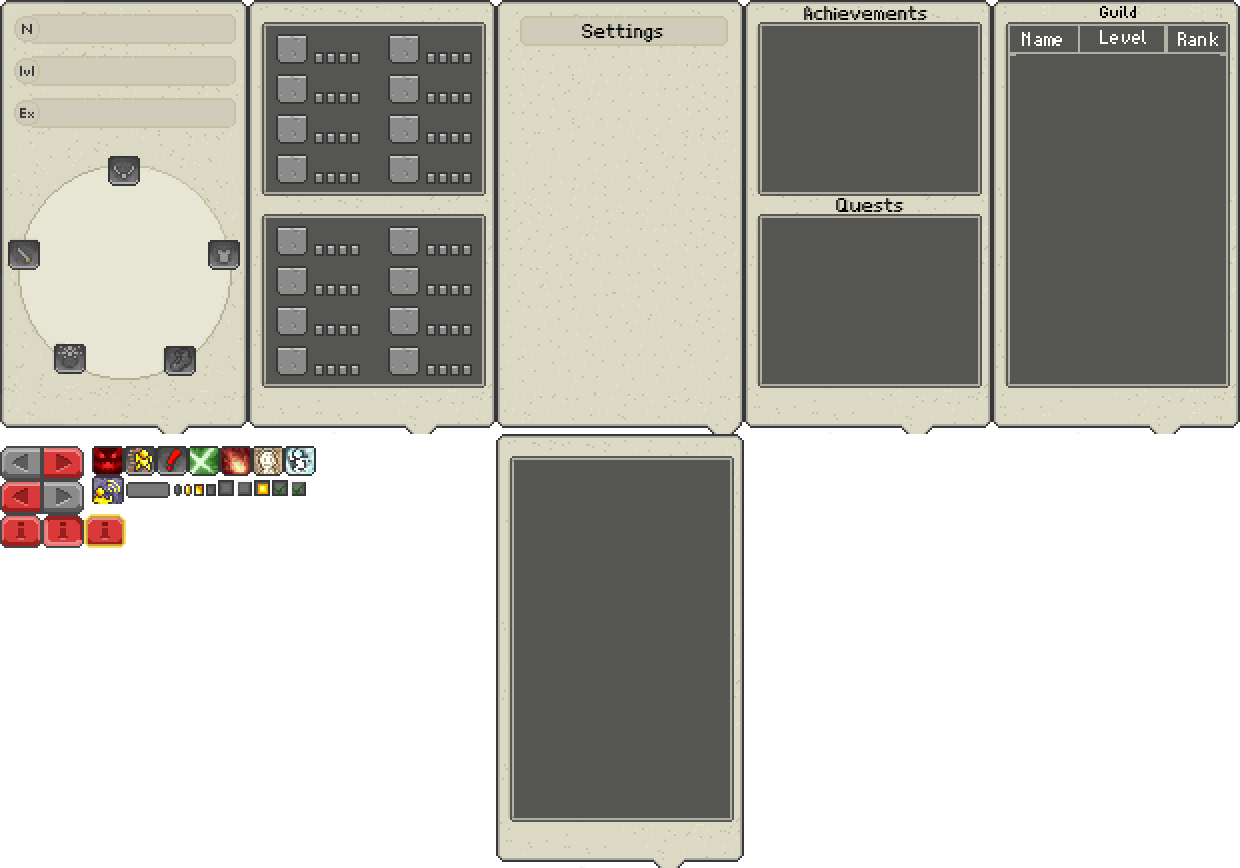
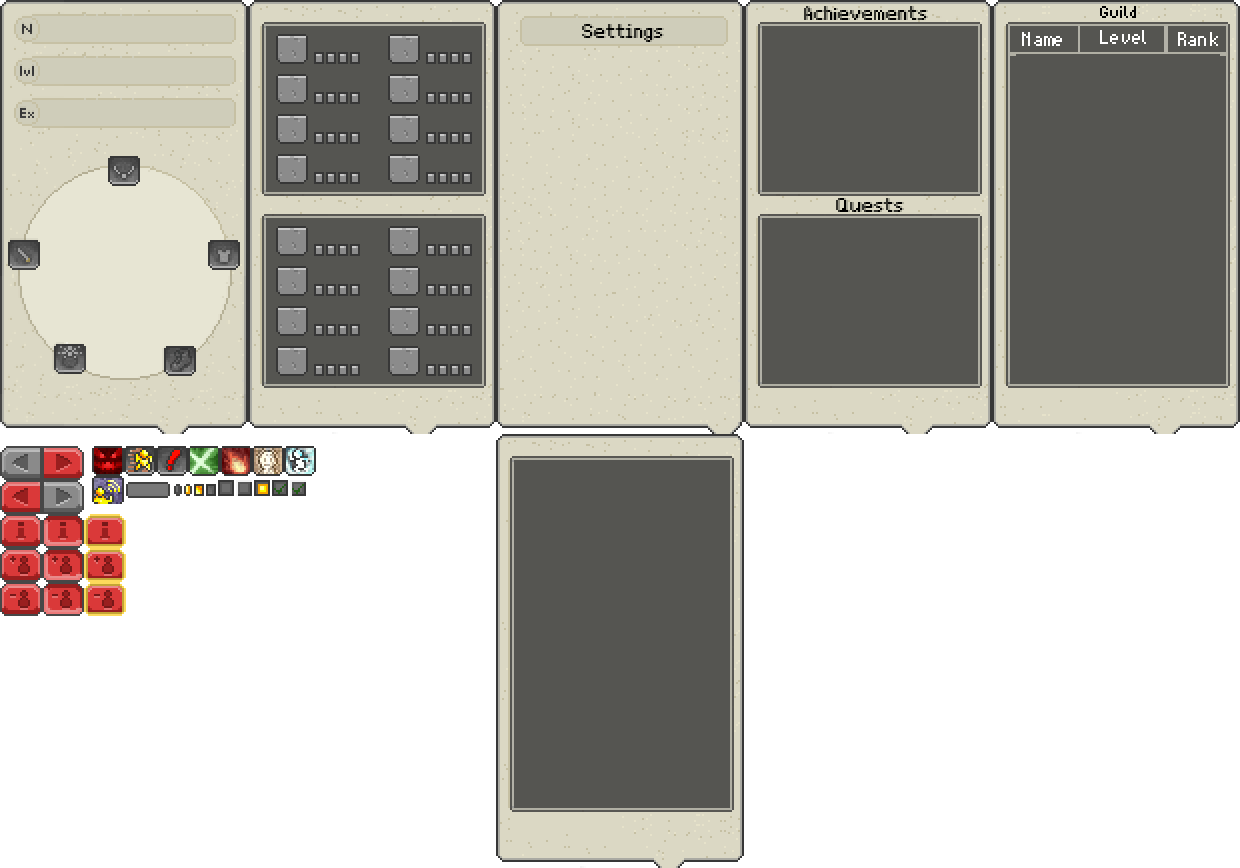
Placeholder friends and quests UI

Changed region(s): [[0.0, 0.6221, 0.1226, 0.7154], [0.3984, 0.9332, 0.6129, 0.9643]]

diff --git a/packages/client/src/controllers/menu.ts b/packages/client/src/controllers/menu.ts
@@ -16,6 +16,8 @@ import Settings from '../menu/settings';
 import QuickSlots from '../menu/quickslots';
 import Equipments from '../menu/equipments';
 import Achievements from '../menu/achievements';
+import Quests from '../menu/quests';
+import Friends from '../menu/friends';
 
 import { Modules, Opcodes, Packets } from '@kaetram/common/network';
 
@@ -32,6 +34,9 @@ export default class MenuController {
     private settings: Settings;
     private equipments: Equipments;
     private achievements: Achievements;
+    private quests: Quests;
+    private friends: Friends;
+
     public header: Header;
 
     public menus: { [key: string]: Menu };
@@ -48,6 +53,8 @@ export default class MenuController {
         this.header = new Header(game.player);
         this.equipments = new Equipments(game.player, game.sprites);
         this.achievements = new Achievements(game.player);
+        this.quests = new Quests(game.player);
+        this.friends = new Friends();
 
         this.menus = {
             inventory: this.inventory,
@@ -59,7 +66,9 @@ export default class MenuController {
             notification: this.notification,
             settings: this.settings,
             equipments: this.equipments,
-            achievements: this.achievements
+            achievements: this.achievements,
+            quests: this.quests,
+            friends: this.friends
         };
 
         this.inventory.onSelect(this.handleInventorySelect.bind(this));

diff --git a/packages/client/scss/game/impl/_friends.scss b/packages/client/scss/game/impl/_friends.scss
@@ -1,0 +1,70 @@
+@use '../../abstracts/media';
+
+#friends-page {
+    position: absolute;
+    right: 0;
+    bottom: 45px;
+}
+
+.add, .remove {
+    position: absolute;
+}
+
+@each $size, $i in media.$sizes {
+    @media ($size) {
+        #friends-page {
+            display: none;
+
+            background: url('/img/#{$i}/characterdialogsheet.png') -248px * $i -217px * $i;
+        }
+
+        .add, .remove {
+            bottom: 8px * $i;
+
+            width: 21px * $i;
+            height: 17px * $i;
+
+            background: url('/img/#{$i}/characterdialogsheet.png') 0 no-repeat;
+
+            &:hover {
+                background-position-x: -42px * $i;
+            }
+
+            &.active {
+                background-position-x: -21px * $i;
+            }
+        }
+
+        .add {
+            left: 24px * $i;
+
+            background-position-y: -274px * $i;
+        }
+
+        .remove {
+            right: 24px * $i;
+
+            background-position-y: -291px * $i;
+        }
+    }
+
+    @media(--lg) {
+        #friends-page {
+            right: 0;
+        }
+    }
+
+    @media(--md) {
+        #friends-page {
+            right: 32px;
+        }
+    }
+
+    @media(--sm) {
+        #friends-page {
+            right: 80px;
+            bottom: 99px;
+            transform: scale(1.5);
+        }
+    }
+}

diff --git a/packages/client/index.html b/packages/client/index.html
@@ -712,6 +712,11 @@
                     </div>
                 </div>
 
+                <div id="friends-page" class="page">
+                    <div class="add"></div>
+                    <div class="remove"></div>
+                </div>
+
                 <div id="attack-info">
                     <div class="name"></div>
                     <div class="details"></div>
@@ -827,6 +832,13 @@
                 <div id="achievements" class="container">
                     <div id="close-achievements" class="close close-container"></div>
                     <div id="achievements-container">
+                        <ul></ul>
+                    </div>
+                </div>
+
+                <div id="quests" class="container">
+                    <div id="close-quests" class="close close-container"></div>
+                    <div id="quests-container">
                         <ul></ul>
                     </div>
                 </div>

diff --git a/packages/client/src/menu/quests.ts b/packages/client/src/menu/quests.ts
@@ -1,0 +1,9 @@
+import Menu from './menu';
+
+import Player from '../entity/character/player/player';
+
+export default class Quests extends Menu {
+    public constructor(private player: Player) {
+        super('#quests', '#close-quests', '#quests-button');
+    }
+}

diff --git a/packages/client/src/menu/friends.ts b/packages/client/src/menu/friends.ts
@@ -1,0 +1,7 @@
+import Menu from './menu';
+
+export default class Friends extends Menu {
+    public constructor() {
+        super('#friends-page', undefined, '#friends-button');
+    }
+}

diff --git a/packages/client/scss/game/impl/_profile.scss b/packages/client/scss/game/impl/_profile.scss
@@ -1,5 +1,10 @@
 @use '../../abstracts/media';
 
+.page {
+    cursor: url('/img/3/hand.png'), auto;
+    user-select: none;
+}
+
 #skills-list {
     position: absolute;
     top: 6%;

diff --git a/packages/client/scss/game/impl/_dialog.scss b/packages/client/scss/game/impl/_dialog.scss
@@ -2,9 +2,6 @@
 
 #profile-dialog,
 #settings-page {
-    cursor: url('/img/3/hand.png'), auto;
-    user-select: none;
-
     position: absolute;
     right: 0;
     bottom: 45px;

diff --git a/packages/client/scss/game/impl/_quests.scss b/packages/client/scss/game/impl/_quests.scss
@@ -1,0 +1,12 @@
+@use '../../abstracts/media';
+
+@each $size, $i in media.$sizes {
+    @media ($size) {
+    }
+
+    @media(--md) {
+    }
+
+    @media(--sm) {
+    }
+}

diff --git a/packages/client/scss/game/_game.scss b/packages/client/scss/game/_game.scss
@@ -19,6 +19,8 @@
 @use 'impl/trade';
 @use 'impl/equipments';
 @use 'impl/achievements';
+@use 'impl/quests';
+@use 'impl/friends';
 
 body.game {
     background: #000;
